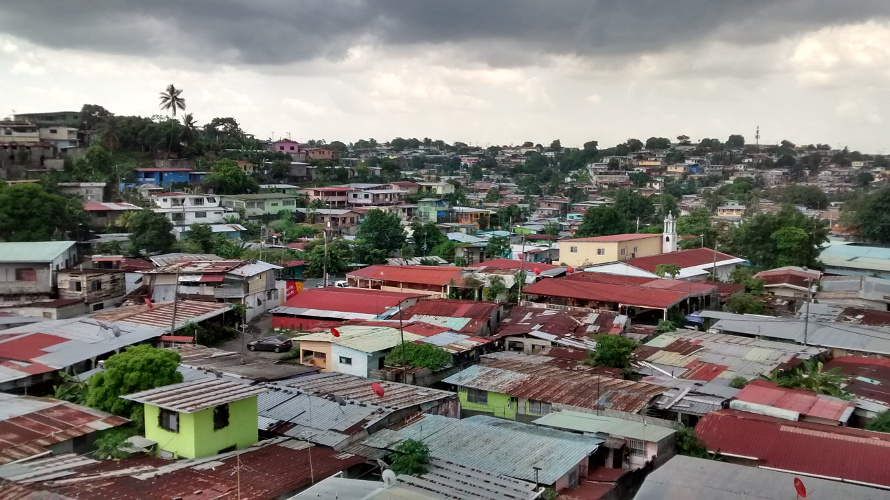
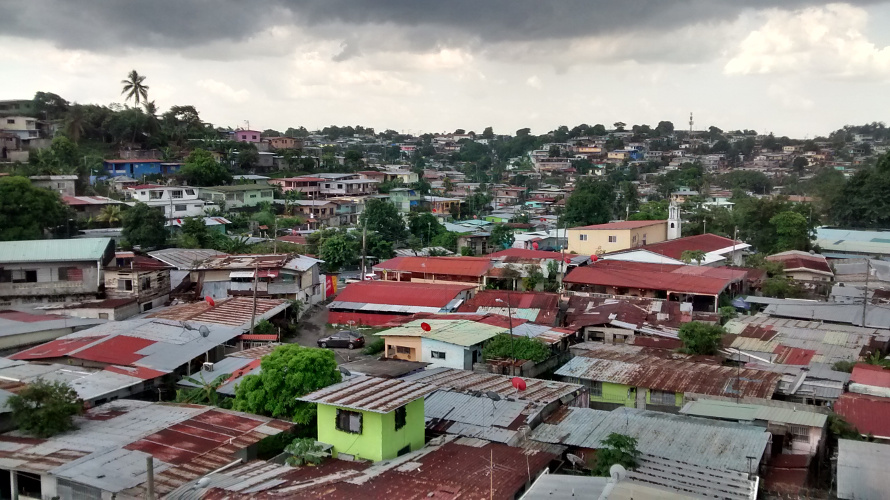
update stitchImg2 + create stitchImg3 + adapt main

diff --git a/src/stitchImages3.m b/src/stitchImages3.m
@@ -1,0 +1,67 @@
+function [] = stitchImages3( imA, imB, HBtoA, HAtoB )
+%STITCHIMAGES3 Creates image mosaic 
+%   Input: imA, imB ... m1xn1, m2xn2 images
+%          H        ... 3x3 homography matrix s.t Hx2 = x1 (with hom. coords)
+%          H        ... 3x3 homography matrix s.t Hx1 = x2 (with hom. coords)
+%   Notation: x .. row index
+%             y .. column index
+
+[m1,n1,~] = size(imA);
+[m2,n2,~] = size(imB);
+
+% Transform corners of right image, corners = [A,B,C,D] with
+% A .. left/above
+% B .. right/above
+% C .. right/below
+% D .. left/below
+corners = [1 1 m2 m2; 1 n2 n2 1; ones(1,4)];
+cornersT = HBtoA*corners;
+cornersT = cornersT(1:2,:)';
+cornersTMin = round(min(cornersT));
+cornersTMax = round(max(cornersT));
+
+% Calculate image mosaic size
+yxMin = min([cornersTMin;1 1]);
+yxMax = max([cornersTMax;m1 n1]);
+sizeMosaic = yxMax - yxMin + 1;
+
+% Shift to positive range (only necessary for x coords, as imB is right
+% image)
+shift = 0;
+if yxMin(1)<1
+    shift = -yxMin(1)+1;
+end
+
+% Extend imA to mosaic size
+imAext = zeros([sizeMosaic,3]);
+imAext((1+shift):(m1+shift),1:n1,:) = im2double(imA);
+
+% Extend corners s.t. mask covers totla area
+extendCornersTX = cornersT(:,1)'+ [-1 -1 1 1];
+extendCornersTY = cornersT(:,2)'+ [-1 1 1 -1];
+
+
+% Create mask for transformed right picture in mosaic
+mask = poly2mask(extendCornersTY,extendCornersTX,sizeMosaic(1),sizeMosaic(2));
+
+% Calculate corresponding coordinates in imB
+[coordsAX,coordsAY] =  ind2sub(size(mask),find(mask>0));
+coordsAtoB = HAtoB * [coordsAX'; coordsAY';ones(1, size(coordsAX,1))];
+coordsAtoB = round(coordsAtoB(1:2,:)');
+
+xAtoB = reshape((coordsAtoB(:,1)),n2,m2)';
+yAtoB = reshape((coordsAtoB(:,2)),n2,m2)';
+
+% Write imB into mosaic
+indAtoB = sub2ind([m2, n2],xAtoB,yAtoB);
+imBext = zeros([sizeMosaic,3]);
+imBext(mask,:)= im2double(imB(indAtoB,:));
+
+figure('name','imAext');
+imshow(imAext);
+figure('name','imBext');
+imshow(imBext);
+figure('name','mask');
+imshow(mask);
+
+end

diff --git a/src/main.m b/src/main.m
@@ -5,8 +5,8 @@ function [ stitchedImage ] = main( impath1, impath2 )
 %% read and convert images
 % note: in images x are columns, y are rows.
 % however later we use an internal representation which is (x,y)
-imA = im2double(imread('../pictures/sanmiguelitoA.jpg'));
-imB = im2double(imread('../pictures/sanmiguelitoB.jpg'));
+imA = im2double(imread('../pictures/wulingyuanA.jpg'));
+imB = im2double(imread('../pictures/wulingyuanB.jpg'));
 %% create DoG pyramids
 [ octA1, octA2, octA3, octA4, dogA1, dogA2, dogA3, dogA4, sigmas ] = createDoG2(imA, false, false);
 [ octB1, octB2, octB3, octB4, dogB1, dogB2, dogB3, dogB4 ] = createDoG2(imB, false, false);
@@ -29,8 +29,8 @@ orientationsA = findOrientations( keypointsA, octA1 );
 orientationsB = findOrientations( keypointsB, octB1 );
 % orientationsA = findOrientations2( keypointsA, {octA1, octA2, octA3, octA4}, sigmas );
 % orientationsB = findOrientations2( keypointsB, {octB1, octB2, octB3, octB4}, sigmas );
-showKeypoints( imA, keypointsA, orientationsA);
-showKeypoints( imB, keypointsB, orientationsB);
+%showKeypoints( imA, keypointsA, orientationsA);
+%showKeypoints( imB, keypointsB, orientationsB);
 
 %% create descriptors
 descriptorsA = createDescriptors( octA1, keypointsA, orientationsA);
@@ -40,13 +40,15 @@ descriptorsB = createDescriptors( octB1, keypointsB, orientationsB);
 matches = matchKeypoints(keypointsA(:,1:2), keypointsB(:,1:2), descriptorsA, descriptorsB);
 %showKeypoints( imA, matches(:, 1:2), 0);
 %showKeypoints( imB, matches(:, 3:4), 0);
-showMatches( imA, imB, matches(:, 1:2), matches(:, 3:4));
+%showMatches( imA, imB, matches(:, 1:2), matches(:, 3:4));
 
 %% find homography (ransac)
-H = findHomography(matches);
+HBtoA = findHomography([matches(:,3:4),matches(:,1:2)]);
+HAtoB = findHomography(matches);
 
 %% stitch images
-stitchImages2( imA, imB, H );
+%stitchImages2( imA, imB, HBtoA );
+stitchImages3( imA, imB, HBtoA,HAtoB );
 
 
 end

diff --git a/src/stitchImages2.m b/src/stitchImages2.m
@@ -5,8 +5,8 @@ function [] = stitchImages2( imA, imB, H )
 %   Notation: x .. row index
 %             y .. column index
 
-[m1,n1] = size(imA);
-[m2,n2] = size(imB);
+[m1,n1,~] = size(imA);
+[m2,n2,~] = size(imB);
 
 % Transform corners of right image
 corners = [1 m2 1 m2; 1 1 n2 n2; ones(1,4)];
@@ -28,8 +28,8 @@ if yxMin(1)<1
 end
 
 % Extend imA to mosaic size
-imAext = zeros(sizeMosaic);
-imAext((1+shift):(m1+shift),1:n1) = im2double(imA);
+imAext = zeros([sizeMosaic,3]);
+imAext((1+shift):(m1+shift),1:n1,:) = im2double(imA);
 
 % Transform imB to imA coordinate system
 [xB, yB] = meshgrid(1:m2, 1:n2);
@@ -40,10 +40,10 @@ xBtoA = reshape(round(coordsBtoA(:,1)),n2,m2)'+shift;
 yBtoA = reshape(round(coordsBtoA(:,2)),n2,m2)';
 
 % Extend transformed imB to mosiac size
-imBext = zeros(sizeMosaic);
+imBext = zeros([sizeMosaic,3]);
 indB = sub2ind([m2, n2],xB',yB');
 indBtoA = sub2ind(sizeMosaic,xBtoA,yBtoA);
-imBext(indBtoA) = im2double(imB(indB));
+imBext(indBtoA,:) = im2double(imB(indB,:));
 
 % Create mask
 mask = imBext>0;
@@ -54,6 +54,7 @@ figure('name','imBext');
 imshow(imBext);
 figure('name','mask');
 imshow(mask);
+
 % Create laplace pyramides for imAext, imBext, mask
 
 % % Klim version
